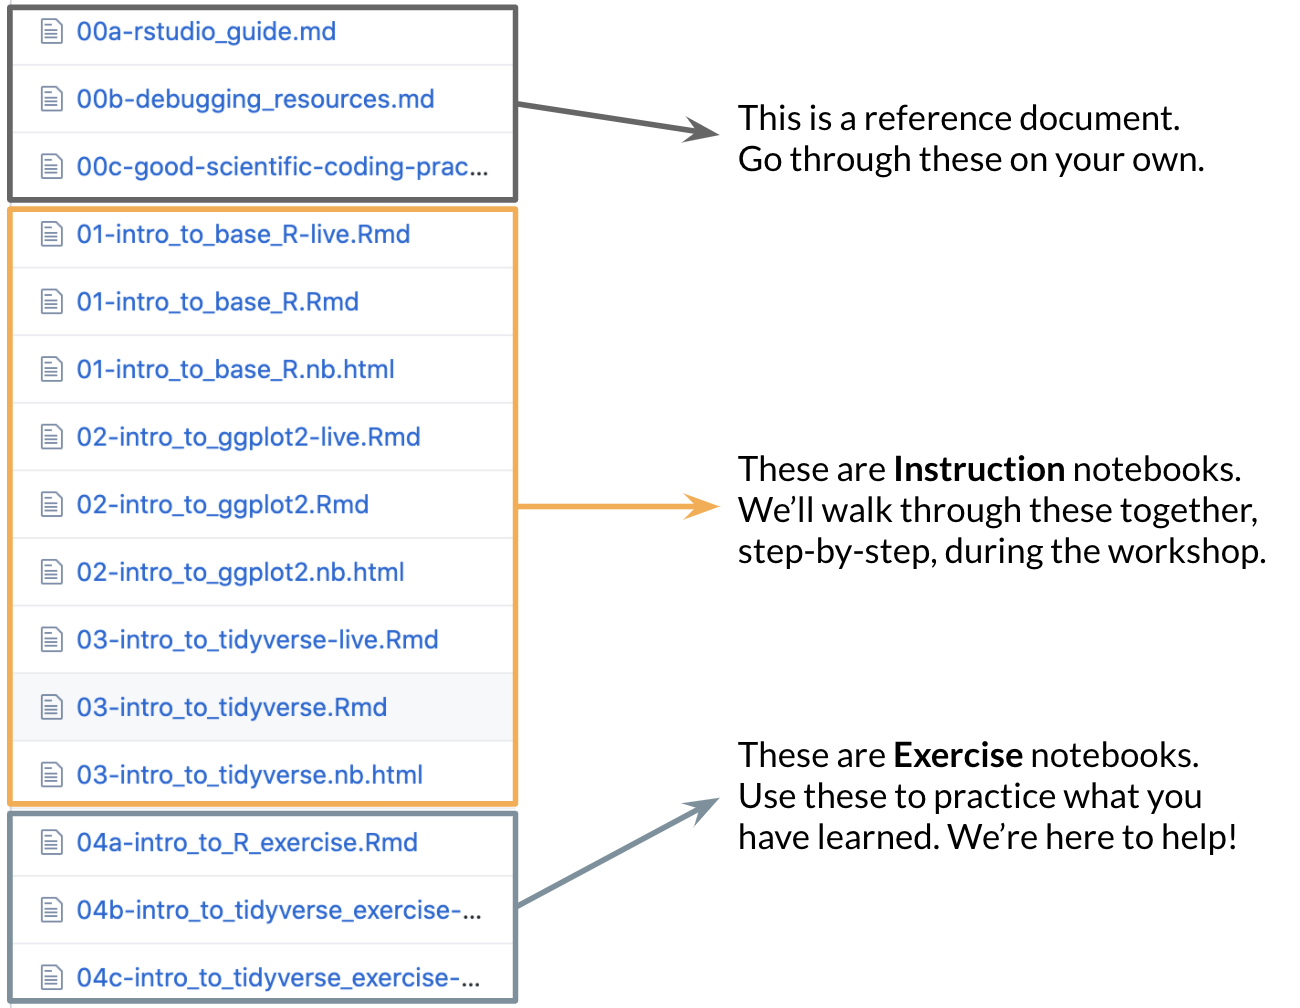
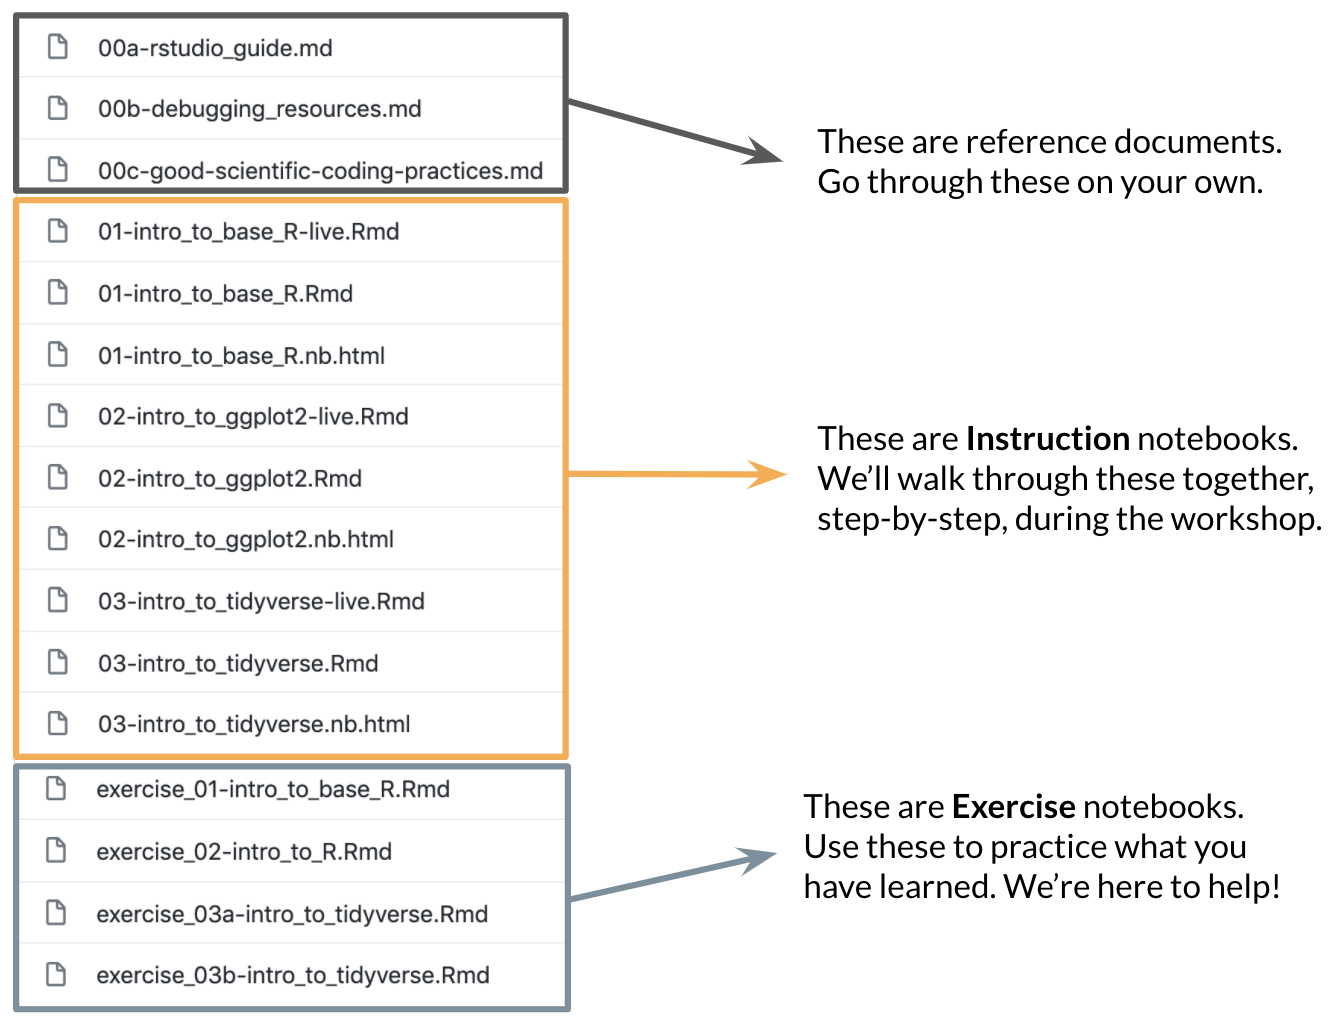
Update `module_structure_detail.png` and module `README`

Changed region(s): [[0.0, 0.0, 0.9846, 1.0], [0.4615, 0.7381, 0.9538, 0.8919], [0.4923, 0.0923, 0.9538, 0.2153]]

diff --git a/README.md b/README.md
@@ -12,7 +12,7 @@ workshop.
 
 ### Structure of each module:
 
-![structure](structure_course.png)
+![structure](module_structure_detail.png)
 
 ### Background slides:
 
